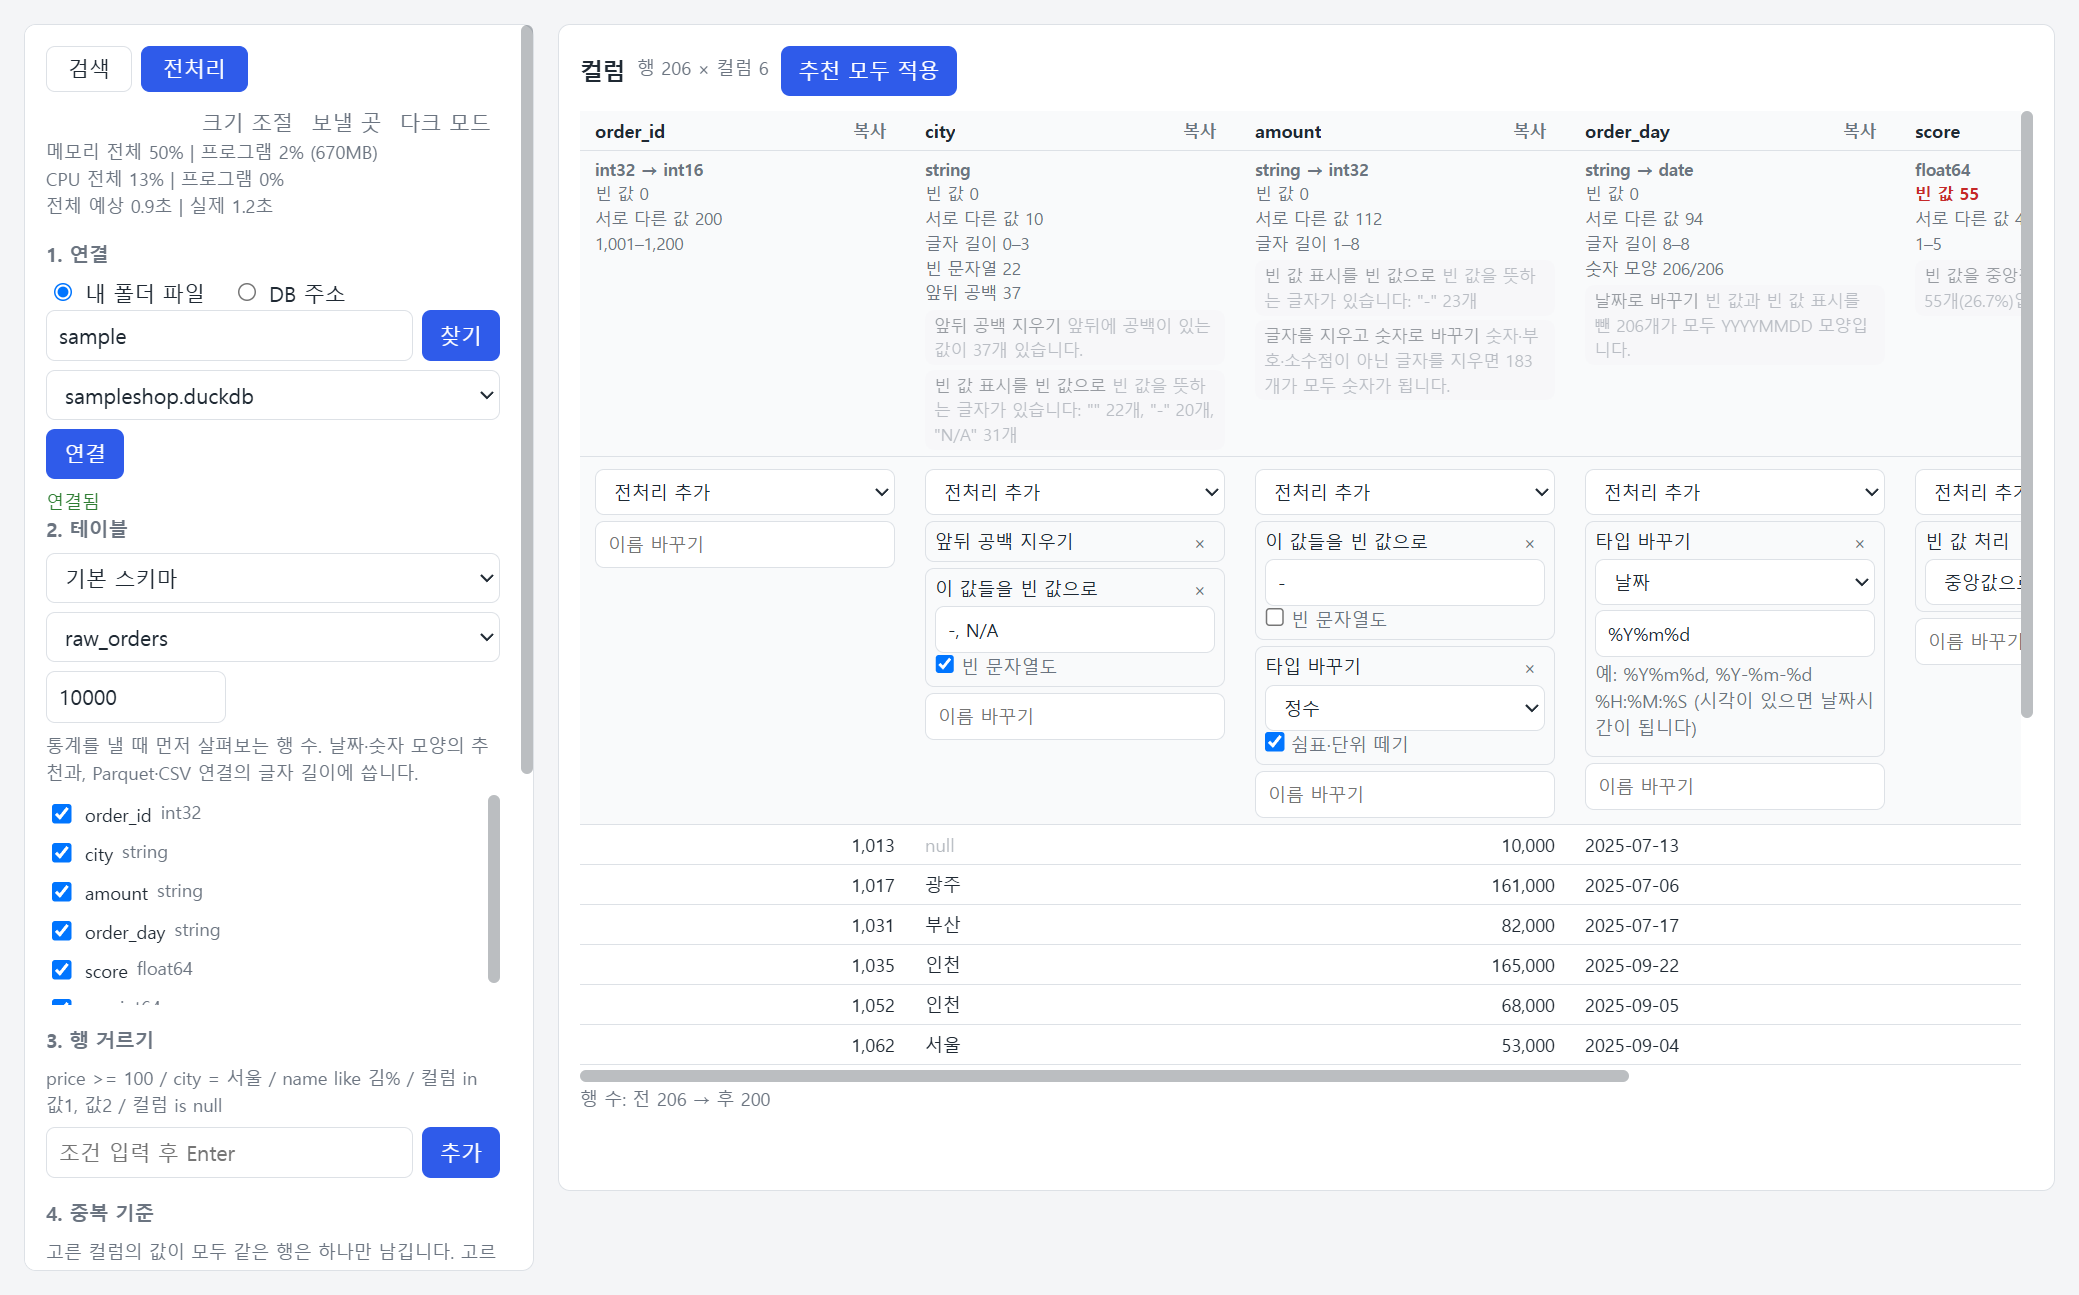
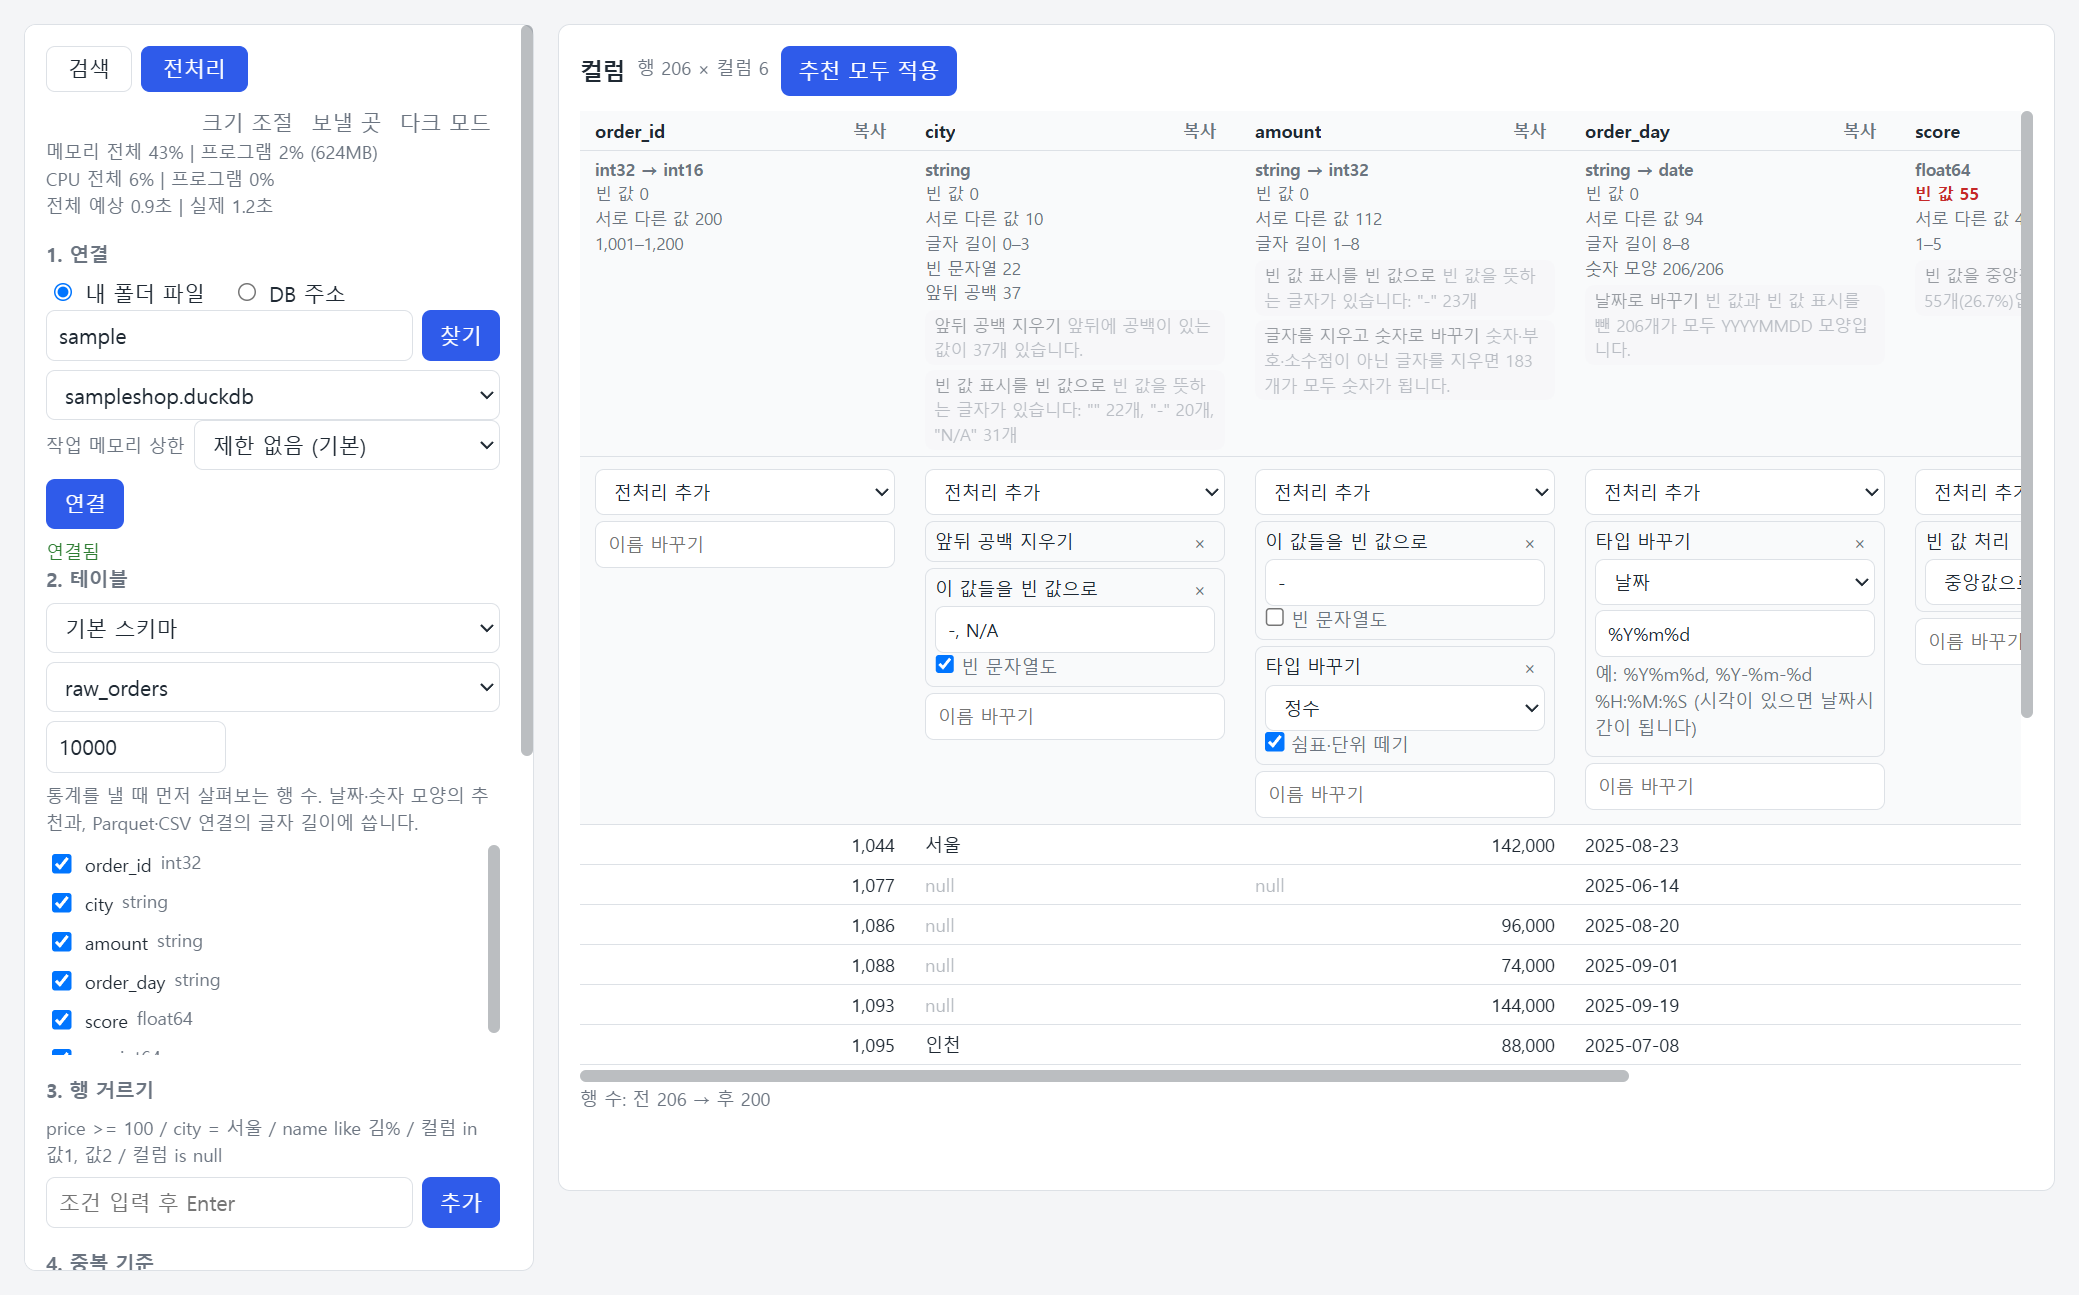
메모리: 데이터 라이브러리를 처음 쓸 때 올림, 작업 메모리 상한, 임시 폴더 정리
- ibis·polars·duckdb·pyarrow를 시작할 때 올리지 않는다(lazy.py). Parquet·CSV 연결은 DuckDB를 올리지 않는다.
- DuckDB 파일 연결의 작업 메모리 상한을 고르거나 직접 넣는다(설정 memory, MB).
- 임시 폴더는 %TEMP%\ibis_search\ 아래에만 만들고, 창을 닫으면 지운다.
  강제 종료로 남은 것은 다음 실행 때 표식과 프로세스를 확인해 이 프로그램이 만든 것만 지운다.

diff --git a/static/common.js b/static/common.js
@@ -224,6 +224,20 @@ function showFlat() {
   $("flat-count").textContent = `${flatBoxes().filter(b => b.checked).length} / ${flatBoxes().length}개 선택`;
 }
 $("file").onchange = showFlat;
+// 작업 메모리 상한(MB, 0 = 제한 없음): 목록에 있는 값이거나 GB로 직접 넣은 값. 저장만 하고 다음 [연결]부터 서버가 쓴다.
+const memory = saved("memory") || "0";
+$("memory").value = [...$("memory").options].some(o => o.value === memory) ? memory : "custom";
+if ($("memory").value === "custom") $("memory-gb").value = memory / 1000;
+$("memory-gb").classList.toggle("hidden", $("memory").value !== "custom");
+$("memory").onchange = () => {
+  $("memory-gb").classList.toggle("hidden", $("memory").value !== "custom");
+  if ($("memory").value !== "custom") saveSetting({ memory: +$("memory").value });
+};
+$("memory-gb").onchange = () => {
+  const gb = Number($("memory-gb").value);
+  if (gb >= 0.256 && gb <= 1000) saveSetting({ memory: Math.round(gb * 1000) });
+  else connMsg("작업 메모리 상한은 0.256GB 이상 1000GB 이하로 넣으세요.");
+};
 $("flat-list").onchange = showFlat;
 $("flat-all").onclick = () => { flatBoxes().forEach(b => b.checked = true); showFlat(); };
 let connected = null;  // 지금 연결의 종류: "flat"(Parquet·CSV 파일), "other"(DuckDB 파일·DB 주소), 없으면 null

diff --git a/static/connect.html b/static/connect.html
@@ -10,6 +10,7 @@
     <div class="row"><button class="ghost" id="flat-all">모두 선택</button><button class="ghost" id="flat-none">모두 해제</button><span class="hint" id="flat-count"></span></div>
     <div class="cols" id="flat-list"></div>
   </div>
+  <div class="row" style="align-items:center" title="DuckDB 파일을 조회할 때 쓰는 메모리의 최대치. 너무 낮으면 큰 집계가 느려지거나 메모리 부족으로 실패할 수 있습니다. 다음 [연결]부터 적용됩니다."><span class="hint" style="margin:0; flex:none">작업 메모리 상한</span><select id="memory"><option value="0">제한 없음 (기본)</option><option value="1000">1GB</option><option value="2000">2GB</option><option value="4000">4GB</option><option value="8000">8GB</option><option value="custom">직접 입력</option></select><input id="memory-gb" type="number" step="any" placeholder="GB" class="hidden" style="width:80px; flex:none"></div>
 </div>
 <div id="url-box" class="hidden">
   <input id="url" placeholder="mssql://host:1433/db" style="margin-bottom:6px">

diff --git a/server.py b/server.py
@@ -2,18 +2,16 @@
 import json
 import re
 import secrets
-import shutil
-import tempfile
 import threading
 from pathlib import Path
 
-import ibis
+from lazy import ibis
 from flask import Flask, Response, abort, current_app, g, jsonify, request
-from ibis.common.exceptions import OperationNotDefinedError, UnsupportedOperationError
 from werkzeug.exceptions import HTTPException
 
 import monitor
 import result
+import scratch
 import settings
 import source
 
@@ -53,9 +51,12 @@ def run(work, drop=lambda value: None):
 def on_error(e):
     if isinstance(e, HTTPException):  # 404, 405, 잘못된 JSON 등은 원래 상태 코드로
         return jsonify(error=e.description), e.code
-    if isinstance(e, (OperationNotDefinedError, UnsupportedOperationError)):  # 연결(백엔드)이 하지 못하는 계산
+    if isinstance(e, source.unsupported_errors()):  # 연결(백엔드)이 하지 못하는 계산
         return jsonify(error=f"이 연결에서는 지원하지 않는 계산입니다. ({e})"), 400
-    return jsonify(error=source.mask(str(e), state["passwords"])), 400
+    message = source.mask(str(e), state["passwords"])
+    if "out of memory" in message.lower():
+        message = "메모리가 모자랍니다. 작업 메모리 상한을 올리거나 조건을 좁히세요. " + message
+    return jsonify(error=message), 400
 
 
 @app.before_request
@@ -117,17 +118,17 @@ def rowcount():
 def download(expr, fmt, guard=True):
     """expr의 전체 행을 fmt(parquet, csv, xlsx) 파일로 임시 폴더에 만들어 조금씩 내려보내고, 다 보내면 지운다.
     guard가 False면 CSV·Excel의 수식 막기를 하지 않는다."""
-    folder = tempfile.mkdtemp()
+    folder = scratch.make()
     path = Path(folder, "result." + fmt)
 
     def write():
         try:
             result.export(expr, path, guard)
         except Exception:
-            shutil.rmtree(folder, ignore_errors=True)
+            scratch.remove(folder)
             raise
 
-    run(write, lambda done: shutil.rmtree(folder, ignore_errors=True))  # 그만둔 뒤에 늦게 다 만든 파일도 지운다.
+    run(write, lambda done: scratch.remove(folder))  # 그만둔 뒤에 늦게 다 만든 파일도 지운다.
 
     bom = b"\xef\xbb\xbf" if path.suffix == ".csv" else b""  # Excel이 CSV의 한글을 바로 읽도록 맨 앞에 붙인다.
 
@@ -137,7 +138,7 @@ def download(expr, fmt, guard=True):
             with open(path, "rb") as f:
                 yield from iter(lambda: f.read(1 << 20), b"")
         finally:
-            shutil.rmtree(folder, ignore_errors=True)
+            scratch.remove(folder)
 
     headers = {"Content-Disposition": f"attachment; filename={path.name}", "Content-Length": path.stat().st_size + len(bom)}
     return Response(stream(), mimetype="application/octet-stream", headers=headers)
@@ -170,7 +171,7 @@ def open_con(info, read_only=True):
             return source.open_flat_files(chosen)
         if not info.get("file"):
             raise ValueError("파일을 고르세요.")
-        return source.open_duckdb(info["file"], read_only)
+        return source.open_duckdb(info["file"], read_only, settings.load().get("memory"))
     return source.open_url(info["url"], info.get("user", ""), info.get("password", ""))
 
 

diff --git a/scratch.py b/scratch.py
@@ -1,0 +1,63 @@
+"""프로그램이 쓰는 임시 폴더. 전용 폴더(ROOT) 아래에만 만들고, 강제 종료로 남은 것을 다음 실행 때 지운다.
+지울 때는 이 프로그램이 만든 것이 확실한 폴더만 지운다(left_behind의 조건). 하나라도 어긋나면 그대로 둔다."""
+import os
+import re
+import shutil
+import tempfile
+from pathlib import Path
+
+import psutil
+
+ROOT = Path(tempfile.gettempdir(), "ibis_search")  # 이 프로그램만 쓰는 폴더. 이 밖은 건드리지 않는다.
+MARK = ".ibis_search"  # 만든 프로세스를 적어 두는 표식 파일: "프로세스 번호 시작 시각"
+NAME = re.compile(r"(\d+)_\w{8}")  # 폴더 이름: 프로세스 번호_무작위 8자(tempfile이 붙인다)
+
+
+def make():
+    """이 프로세스의 임시 폴더를 ROOT 아래에 하나 만들고 표식을 넣는다. 다 쓰면 만든 쪽이 지운다."""
+    ROOT.mkdir(exist_ok=True)
+    if ROOT.is_symlink() or os.path.isjunction(ROOT):  # 다른 곳을 가리키는 링크면 그 안에 만들지 않는다.
+        raise OSError(f"임시 폴더({ROOT})가 링크라서 쓸 수 없습니다.")
+    folder = tempfile.mkdtemp(prefix=f"{os.getpid()}_", dir=ROOT)
+    Path(folder, MARK).write_text(f"{os.getpid()} {psutil.Process().create_time()}", encoding="ascii")
+    return folder
+
+
+def remove(folder):
+    """make로 만든 폴더를 지운다. ROOT가 비면 ROOT도 지워 흔적을 남기지 않는다."""
+    shutil.rmtree(folder, ignore_errors=True)
+    try:
+        ROOT.rmdir()
+    except OSError:  # 다른 폴더가 남아 있다.
+        pass
+
+
+def left_behind(folder):
+    """folder가 끝난 프로세스가 남긴 이 프로그램의 임시 폴더인지. 아래를 모두 채워야 참이다.
+    ROOT 바로 아래의 진짜 폴더(링크·정션이 아님)이고, 이름이 NAME 모양이고, 표식의 번호가 이름의 번호와 같고,
+    그 번호·그 시작 시각의 프로세스가 지금은 없다."""
+    try:
+        match = NAME.fullmatch(folder.name)
+        if not match or folder.is_symlink() or os.path.isjunction(folder) or not folder.is_dir() or folder.resolve().parent != ROOT.resolve():
+            return False
+        mark = Path(folder, MARK)
+        if mark.is_symlink() or not mark.is_file():
+            return False
+        pid, started = mark.read_text(encoding="ascii").split()
+        if pid != match[1]:
+            return False
+        try:
+            return abs(psutil.Process(int(pid)).create_time() - float(started)) > 1  # 같은 번호를 다른 프로세스가 다시 쓴 경우
+        except psutil.NoSuchProcess:
+            return True
+    except (OSError, ValueError, psutil.Error):  # 읽을 수 없거나 표식이 깨졌으면 모르는 것이다.
+        return False
+
+
+def sweep():
+    """ROOT 바로 아래에서 끝난 프로세스가 남긴 임시 폴더만 지운다. 켜져 있는 다른 창의 폴더와 모르는 것은 둔다."""
+    if ROOT.is_symlink() or os.path.isjunction(ROOT) or not ROOT.is_dir():
+        return
+    for folder in ROOT.iterdir():
+        if left_behind(folder):
+            remove(folder)

diff --git a/source.py b/source.py
@@ -7,9 +7,10 @@ import threading
 from pathlib import Path
 from urllib.parse import quote_plus, unquote, urlsplit
 
-import ibis
+from lazy import ibis
 
 import drivers
+import scratch
 
 STOP_WAIT = 2  # 멈추라고 알린 일이 실제로 끝나기를 기다리는 시간(초).
 
@@ -92,8 +93,19 @@ def find_files(folder):
 
 
 @on_worker
-def open_duckdb(path, read_only=True):
-    return ibis.duckdb.connect(path, read_only=read_only)
+def open_duckdb(path, read_only=True, memory=None):
+    """DuckDB 파일을 연다. memory(MB, 정수)를 주면 작업 메모리 상한을 걸고 넘치는 것은 임시 폴더에 쓴다
+    (그 폴더는 close가 지운다). None이면 제한 없이(DuckDB 기본) 연다."""
+    if not memory:
+        return ibis.duckdb.connect(path, read_only=read_only)
+    folder = scratch.make()
+    try:
+        con = ibis.duckdb.connect(path, read_only=read_only, temp_directory=folder, memory_limit=f"{memory}MB")
+    except Exception:
+        scratch.remove(folder)
+        raise
+    con.scratch = folder
+    return con
 
 
 def table_names(paths):
@@ -147,6 +159,13 @@ def close(con):
         con.disconnect()
     except Exception:
         pass
+    if hasattr(con, "scratch"):  # open_duckdb가 만든 임시 폴더
+        scratch.remove(con.scratch)
+
+
+def unsupported_errors():
+    """연결(백엔드)이 하지 못하는 계산에서 Ibis가 내는 오류들."""
+    return ibis.common.exceptions.OperationNotDefinedError, ibis.common.exceptions.UnsupportedOperationError
 
 
 def interrupt(con):

diff --git a/settings.py b/settings.py
@@ -16,8 +16,8 @@ CHOICES = {
     "count": ["on", "off"],  # 검색할 때 전체 행 수를 셀지: 센다 / 세지 않는다
 }
 
-# 끌어서 조절한 크기(px)와 전처리가 미리 볼 행 수(sample), 오래 걸린 작업이 끝났을 때 알림을 보내는 기준 시간(notify_after, 초, 기본 30): (최소, 최대). 크기는 화면(index.html)의 SIZES와 같아야 한다. 0을 저장하면 기본값으로 돌아간다.
-SIZES = {"panel": (240, 640), "rows": (120, 1200), "summary": (120, 1200), "chart": (200, 1000), "sample": (1000, 1_000_000), "notify_after": (5, 3600)}
+# 끌어서 조절한 크기(px)와 전처리가 미리 볼 행 수(sample), 오래 걸린 작업이 끝났을 때 알림을 보내는 기준 시간(notify_after, 초, 기본 30), DuckDB 파일 조회의 작업 메모리 상한(memory, MB, 기본은 제한 없음): (최소, 최대). 크기는 화면(index.html)의 SIZES와 같아야 한다. 0을 저장하면 기본값으로 돌아간다.
+SIZES = {"panel": (240, 640), "rows": (120, 1200), "summary": (120, 1200), "chart": (200, 1000), "sample": (1000, 1_000_000), "notify_after": (5, 3600), "memory": (256, 1_000_000)}
 
 # 직전 실행의 행당 시간(나노초/행). 작업 종류(검색·집계·차트·저장·전처리의 모양 보기·미리보기·실행)와 기준 테이블 행 수의 구간(10배 단위)마다 하나.
 # 이름은 time_종류_구간이고 구간은 행 수의 자릿수 - 1(1,000행 미만은 모두 2)이다. 화면이 예상 시간을 구할 때 같은 구간의 값만 쓴다.

diff --git a/desktop.py b/desktop.py
@@ -1,14 +1,18 @@
 """검색·전처리 화면을 프로그램 창으로 연다. exe의 실행 파일이자 유일한 실행 방법."""
 import threading
 
+import lazy  # noqa: F401  데이터 라이브러리를 처음 쓸 때 올린다(다른 프로젝트 모듈보다 먼저).
 import webview
 from werkzeug.serving import make_server
 
 import notify  # noqa: F401  보내기 라우트가 앱에 달린다.
 import prep_app  # noqa: F401  전처리 라우트가 앱에 달린다.
+import scratch
 import server
+import source
 from app import KEY, app
 
+scratch.sweep()  # 지난번에 강제 종료돼 남은 임시 폴더를 지운다.
 http = make_server("127.0.0.1", 0, app, threaded=True)  # 0: 비어 있는 포트를 자동으로 고른다. threaded: 조회 중에도 메모리·CPU 요청에 답한다.
 threading.Thread(target=http.serve_forever, daemon=True).start()
 
@@ -25,3 +29,5 @@ def ask_save(name):
 
 server.ask_save = ask_save
 webview.start()  # 창을 닫으면 여기서 끝나고, 서버 스레드도 함께 종료된다.
+if server.state["con"] is not None:  # 열어 둔 연결을 닫아 파일을 놓고 임시 폴더를 지운다.
+    source.close(server.state["con"])

diff --git a/lazy.py b/lazy.py
@@ -1,0 +1,16 @@
+"""무거운 데이터 라이브러리(ibis, polars, duckdb, pyarrow)를 처음 쓸 때 올리게 한다.
+프로젝트 모듈은 `import ibis` 대신 `from lazy import ibis`로 쓴다: sys.modules에 든 지연 모듈에 `import` 문을 쓰면 그 자리에서 올라와 버리기 때문이다.
+설치되어 있지 않은 것은 건너뛰고, 이미 올라와 있는 것은 그대로 둔다."""
+import importlib
+import importlib.util
+import sys
+
+for name in ("ibis", "polars", "duckdb", "pyarrow"):
+    spec = importlib.util.find_spec(name)
+    if spec is not None and name not in sys.modules:
+        spec.loader = importlib.util.LazyLoader(spec.loader)
+        module = importlib.util.module_from_spec(spec)
+        sys.modules[name] = module
+        spec.loader.exec_module(module)
+
+ibis = sys.modules["ibis"] if "ibis" in sys.modules else importlib.import_module("ibis")

diff --git a/prep_ops.py b/prep_ops.py
@@ -4,10 +4,10 @@ import functools
 import operator
 import re
 
-import ibis
-from ibis.common.exceptions import OperationNotDefinedError, UnsupportedOperationError
+from lazy import ibis
 
 import parse
+import source
 
 TYPE_TO = {"int": "int64", "float": "float64", "string": "string", "date": "date"}
 FLOAT_SHAPE = r"^[+-]?([0-9]+\.?[0-9]*|\.[0-9]+)([eE][+-]?[0-9]+)?$"  # 12, -1.5, .5, 1e5. inf·nan은 숫자로 보지 않는다.
@@ -298,7 +298,7 @@ def counts(t, name, arg):
     row = counts_in_row(t[name], sep)
     try:
         t.get_backend().compile(t.select(row))
-    except (OperationNotDefinedError, UnsupportedOperationError):
+    except source.unsupported_errors():
         return counts_by_table(t, name, new, sep)
     return t.mutate(**{new: row})
 

diff --git a/prep_profile.py b/prep_profile.py
@@ -1,6 +1,6 @@
 """테이블의 모양(shape), 컬럼별 통계(profile)와 모양 검사가 필요 없는 추천, 글자 컬럼의 타입 추천(patterns).
 큰 테이블에서 느린 것(글자 수 세기, 모양 검사)은 앞 sample행으로 먼저 걸러 낸다."""
-import ibis
+from lazy import ibis
 
 import parse
 import result

diff --git a/prep.py b/prep.py
@@ -1,6 +1,6 @@
 """전처리: recipe(테이블, 행 거르기, 컬럼 복사, 컬럼별 일, 파생 컬럼 빼기, 중복 제거, downcast, 정렬)를 Ibis 식 하나로 만든다.
 컬럼 하나에 하는 일은 prep_ops.py의 OPS 표에 있다."""
-import ibis
+from lazy import ibis
 
 import parse
 import prep_ops
